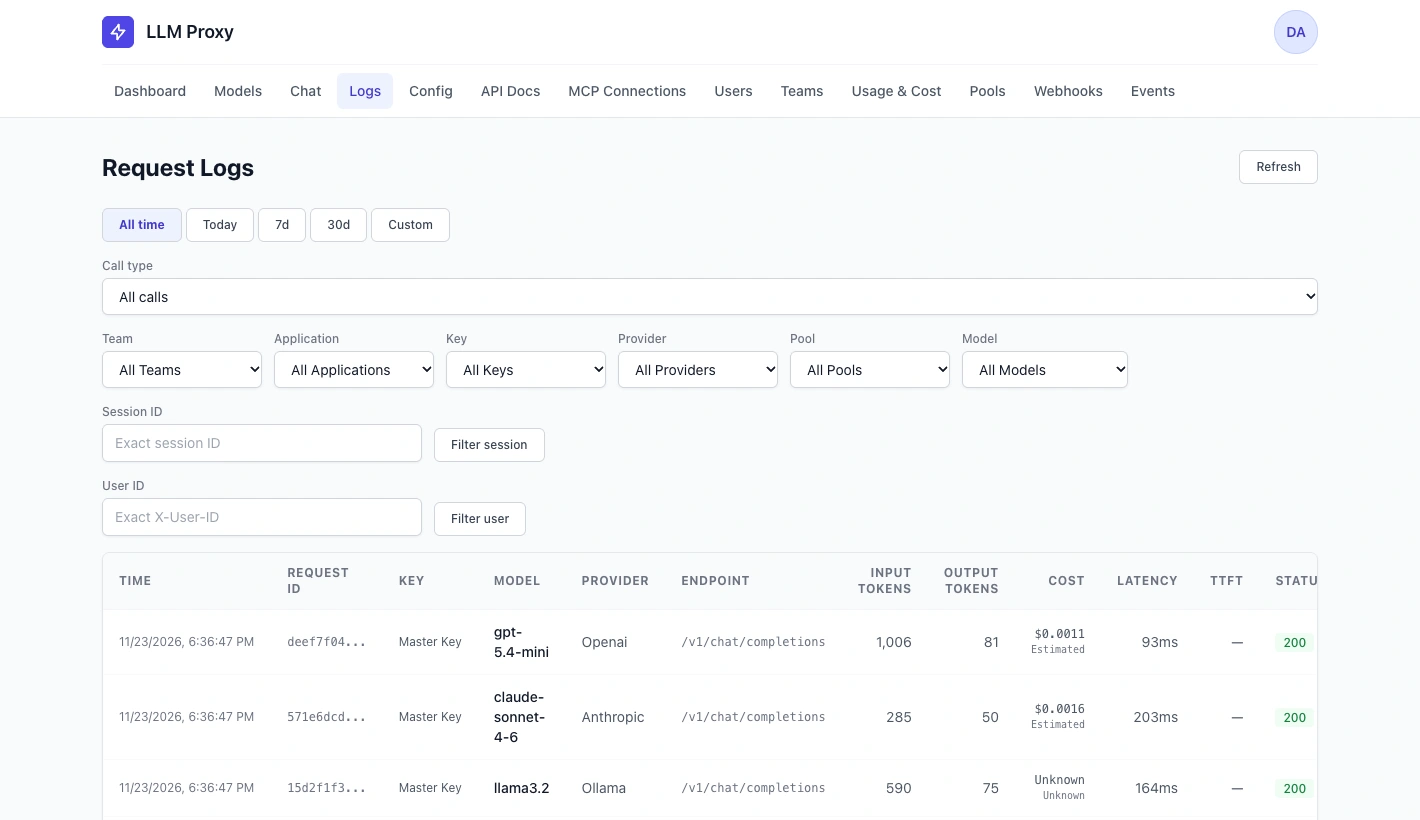
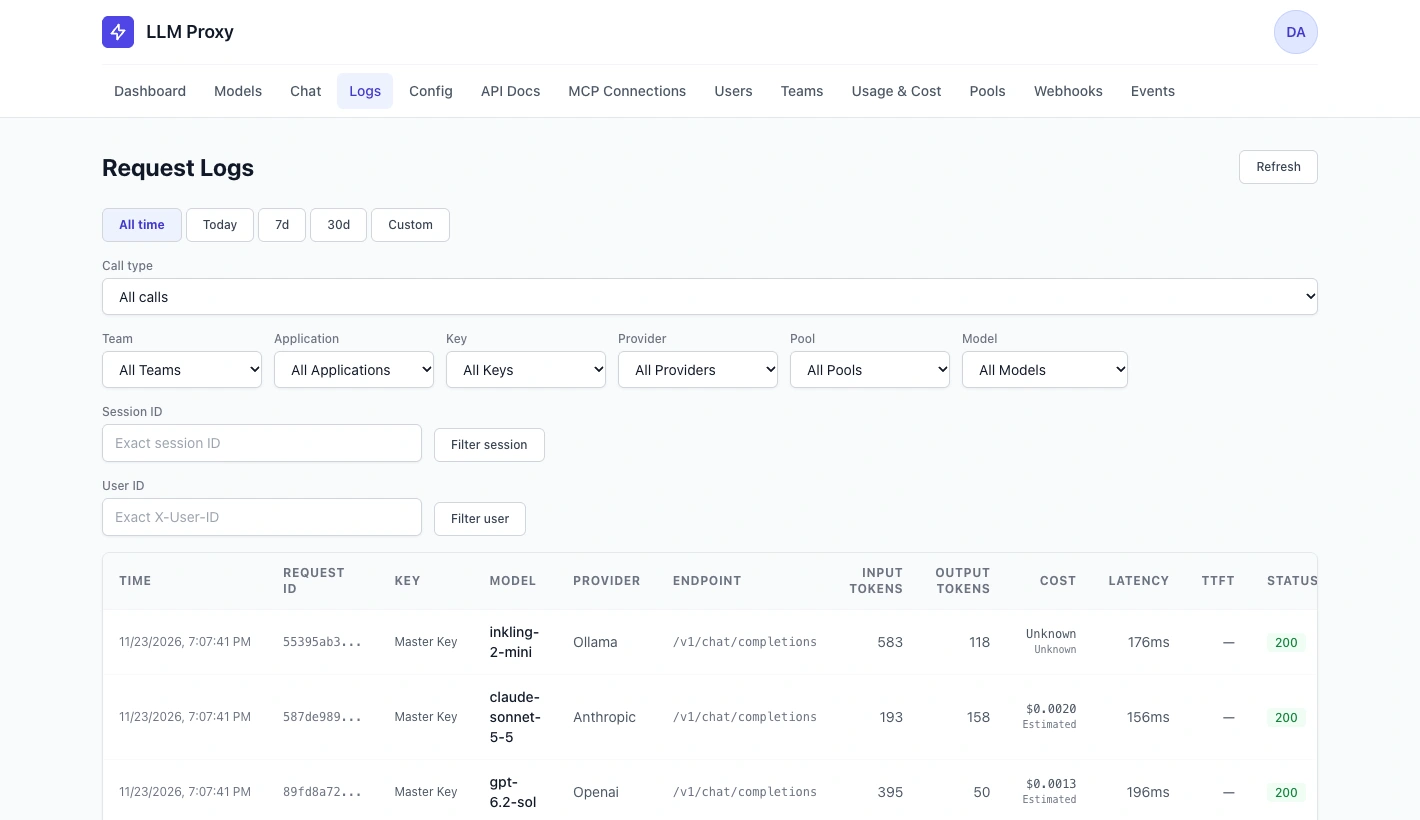
docs(pages): refresh proxy model examples (#184)

diff --git a/site/index.html b/site/index.html
@@ -44,15 +44,15 @@
           <ul>
             <li>
               <code>draft</code>
-              <span><strong>OpenAI</strong><small>gpt-5.4-mini</small></span>
+              <span><strong>OpenAI</strong><small>gpt-6.2-sol</small></span>
             </li>
             <li>
               <code>review</code>
-              <span><strong>Anthropic</strong><small>claude-sonnet-4-6</small></span>
+              <span><strong>Anthropic</strong><small>claude-sonnet-5-5</small></span>
             </li>
             <li>
               <code>local-chat</code>
-              <span><strong>Ollama</strong><small>llama3.2</small></span>
+              <span><strong>Ollama</strong><small>inkling-2-mini</small></span>
             </li>
           </ul>
         </figure>
@@ -96,7 +96,7 @@
           <p class="label">Quickstart</p>
           <h2>Make the first call.</h2>
           <p>Build with Go 1.25.4 or later. This example uses a local Ollama instance so you can try the proxy without a hosted API key.</p>
-          <p>Start Ollama and run <code>ollama pull llama3.2</code> first. Save the <a href="ollama.yaml" download>example config</a> as <code>ollama.yaml</code> in the cloned repository.</p>
+          <p>Start Ollama and run <code>ollama pull inkling-2-mini</code>. <a href="https://ollama.com/library/inkling-2-mini">Inkling 2 Mini</a> is a 20 GB download. Save the <a href="ollama.yaml" download>example config</a> as <code>ollama.yaml</code> in the cloned repository.</p>
           <a class="text-link" href="https://github.com/pridkett/simple-llm-proxy#quick-start">Read the full quickstart</a>
         </div>
         <div class="steps">
@@ -114,7 +114,7 @@ export PROXY_MASTER_KEY="$(openssl rand -hex 32)"
             <pre tabindex="0"><code>curl http://127.0.0.1:8080/v1/chat/completions \
   -H "Authorization: Bearer $PROXY_MASTER_KEY" \
   -H 'Content-Type: application/json' \
-  -d '{"model":"llama3.2","messages":[{"role":"user","content":"Describe a fictional moon in one sentence."}]}'</code></pre>
+  -d '{"model":"inkling-2-mini","messages":[{"role":"user","content":"Describe a fictional moon in one sentence."}]}'</code></pre>
             <p class="copy-status" role="status"></p>
           </div>
           <p>Once the listener starts, run the request in the same terminal. Run <code>fg</code> followed by Ctrl+C to stop the proxy.</p>
